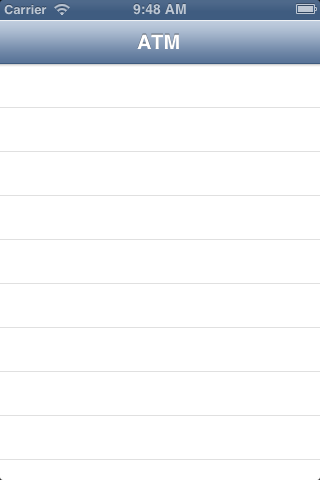
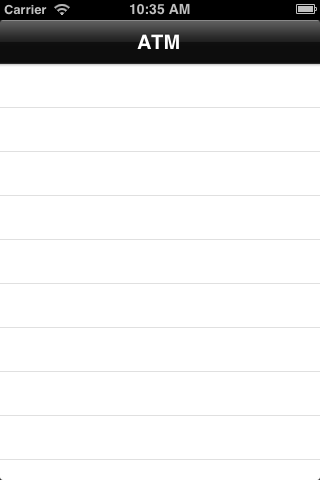
default image

Changed region(s): [[0.0, 0.0, 1.0, 0.1562]]

diff --git a/atmlocator/AppDelegate.m b/atmlocator/AppDelegate.m
@@ -30,6 +30,7 @@
     self.viewController = [[[ViewController alloc] initWithNibName:@"ViewController" bundle:nil] autorelease];
     self.navigation=[[UINavigationController alloc]initWithRootViewController:self.viewController];
     self.window.rootViewController = self.navigation;
+    self.navigation.navigationBar.barStyle = UIBarStyleBlack;
     [self.window makeKeyAndVisible];
     return YES;
 }
